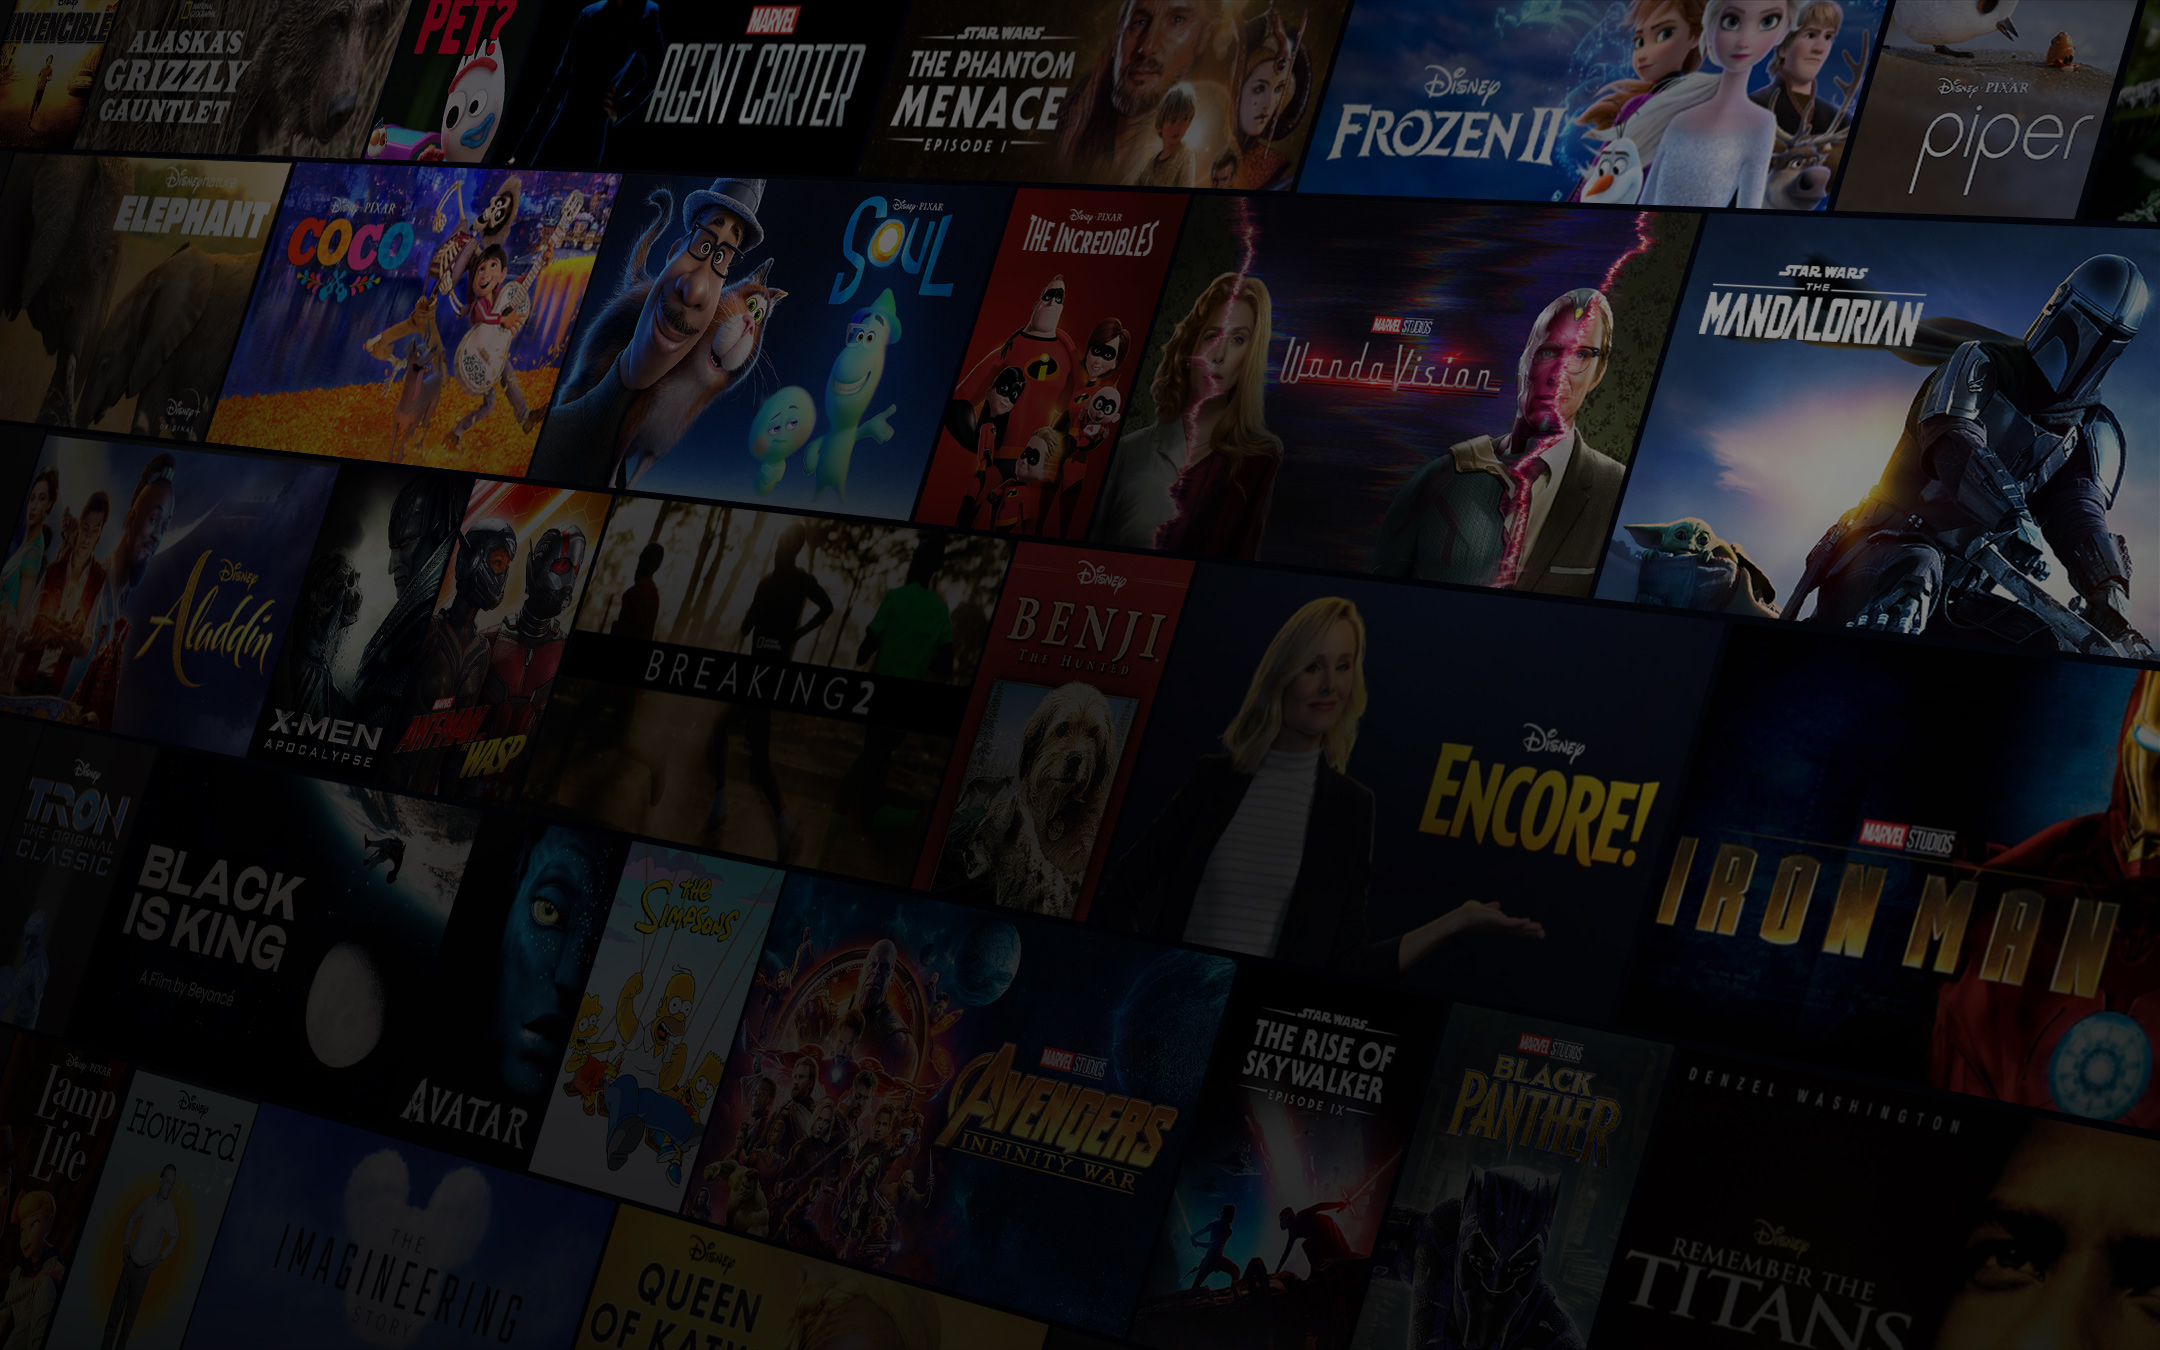
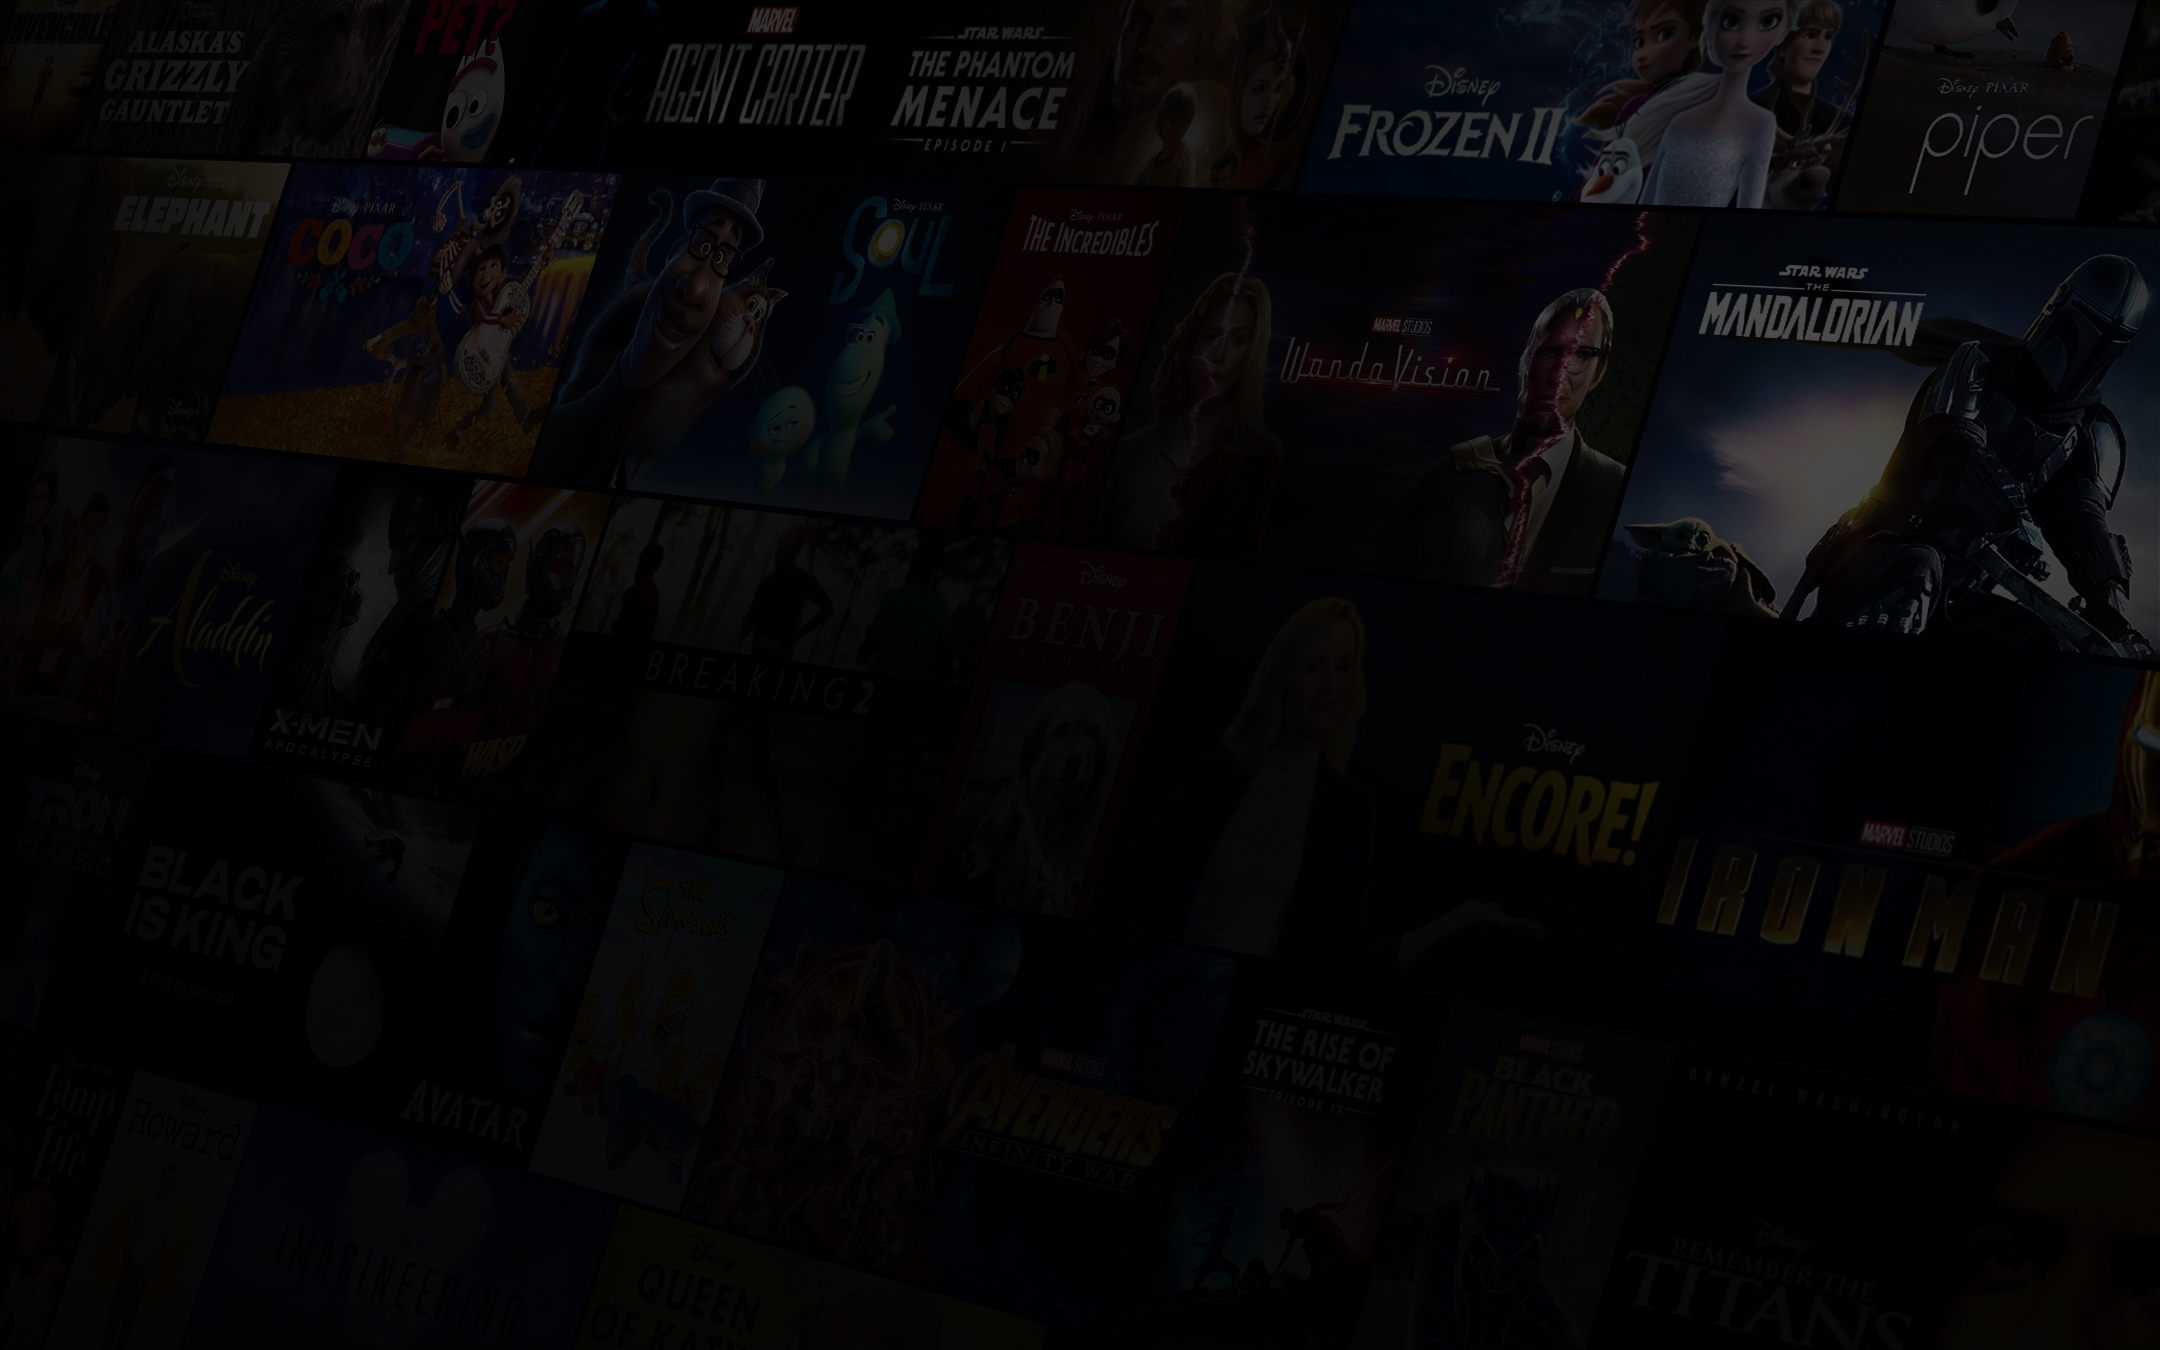
minor bugs 3.4 and background image

diff --git a/components/Row.tsx b/components/Row.tsx
@@ -28,26 +28,26 @@ function Row({ title, movies }: Props) {
 
   return (
     <div className="h-40 space-y-0.5 md:space-y-2">
-      <h2 className="w-56 cursor-pointer text-sm font-semibold text-black transition duration-200 hover:text-white md:text-2xl">
+      <h2 className="w-56 cursor-pointer text-sm font-semibold text-[#e5e5e5] transition duration-200 hover:text-white md:text-2xl">
         {title}
       </h2>
-      <div className="group relative md:-ml-2">
+      <div className="group relative">
         <ChevronLeftIcon
-          className={`absolute top-0 bottom-0 left-2 z-40 m-auto h-9 w-9 cursor-pointer opacity-0 transition hover:scale-125 group-hover:opacity-100 ${
+          className={`absolute top-0 bottom-0 left-2 z-40 m-auto h-9 w-9 cursor-pointer opacity-0 transition hover:scale-125 group-hover:opacity-100 group-hover:text-white ${
             !isMoved && 'hidden'
           }`}
           onClick={() => handleClick('left')}
         />
         <div
-          className="scrollbar-hide flex items-center space-x-0.5 overflow-x-scroll md:space-x-2.5 md:p-2"
+          className="flex items-center space-x-0.5 overflow-x-scroll scrollbar-hide md:space-x-4 md:p-2"
           ref={rowRef}
         >
           {movies.map((movie) => (
-            <Thumbnail key={movie.id} movie={movie}/>
+            <Thumbnail key={movie.id} movie={movie} />
           ))}
         </div>
         <ChevronRightIcon
-          className="absolute top-0 bottom-0 right-2 z-40 m-auto h-9 w-9 cursor-pointer opacity-0 transition hover:scale-125 group-hover:opacity-100"
+          className="absolute top-0 bottom-0 right-2 z-40 m-auto h-9 w-9 cursor-pointer opacity-0 transition hover:scale-125 group-hover:opacity-100 group-hover:text-white"
           onClick={() => handleClick('right')}
         />
       </div>

diff --git a/components/Brands.jsx b/components/Brands.jsx
@@ -4,19 +4,19 @@ import React from 'react'
 function Brands() {
   return (
     <section className="max-auto mt-10 flex max-w-[1400px] flex-col items-center justify-around gap-6 px-10 ml-5 xl:flex-row ">
-      <div className="brand transform-[300] group items-center justify-center bg-cover bg-fixed bg-center bg-no-repeat text-5xl font-bold hover:bg-[url('/images/horror.jpg')] hover:text-white">
+      <div className="brand group genre bg-[url('/images/horror.jpg')]">
         <h2>Horror</h2>
       </div>
-      <div className="brand transform-[300] group items-center justify-center bg-cover bg-fixed bg-center bg-no-repeat text-5xl font-bold hover:bg-[url('/images/kids.png')] hover:text-white">
+      <div className="brand group genre bg-[url('/images/kids.png')]">
         <h2>Kids</h2>
       </div>
-      <div className="brand transform-[300] group items-center justify-center bg-cover bg-fixed bg-center bg-no-repeat text-5xl font-bold hover:bg-[url('/images/action.jpg')] hover:text-white">
+      <div className="brand group genre bg-[url('/images/action.jpg')]">
         <h2>Action</h2>
       </div>
-      <div className="brand transform-[300] group items-center justify-center bg-cover bg-fixed bg-center bg-no-repeat text-5xl font-bold hover:bg-[url('/images/scifi.jpg')] hover:text-white">
+      <div className="brand group genre bg-[url('/images/scifi.jpg')]">
         <h2>Sci-fi</h2>
       </div>
-      <div className="brand transform-[300] group items-center justify-center bg-cover bg-fixed bg-center bg-no-repeat text-5xl font-bold hover:bg-[url('/images/romance.webp')] hover:text-white">
+      <div className="brand group genre bg-[url('/images/romance.webp')]">
         <h2>Romance</h2>
       </div>
     </section>

diff --git a/styles/globals.css b/styles/globals.css
@@ -4,7 +4,7 @@
 
 @layer base {
   body {
-    @apply bg-gray-100 text-black;
+    @apply bg-black text-black;
   }
 
   header {
@@ -22,6 +22,10 @@
   }
 
   .brand {
-    @apply relative flex h-32 w-52 transform cursor-pointer overflow-hidden rounded-lg border-[3px] border-black border-opacity-10 shadow-xl transition  duration-300 hover:scale-125 hover:border-opacity-80 hover:shadow-2xl sm:h-36 sm:w-64 text-black;
+    @apply relative flex w-52 transform cursor-pointer overflow-hidden rounded-lg border-[3px] border-black border-opacity-10 shadow-xl transition  duration-300 hover:scale-125 hover:border-opacity-80 hover:shadow-2xl sm:h-[20vh] sm:w-64 text-black;
+  }
+
+  .genre{
+    @apply  hover:z-10 items-center justify-center bg-center text-5xl font-bold hover:text-white bg-cover text-transparent
   }
 }

diff --git a/components/Thumbnail.tsx b/components/Thumbnail.tsx
@@ -8,7 +8,7 @@ interface Props{
 
 function Thumbnail({movie}:Props) {
   return (
-    < div className={`relative h-28 min-w-[180px] cursor-pointer transition duration-200 ease-out md:h-36 md:min-w-[260px] md:hover:scale-105`}>
+    < div className={`relative h-28 min-w-[180px] cursor-pointer transition duration-200 ease-out md:h-36 md:min-w-[260px] md:hover:scale-110 md:hover:border-4 md:hover:rounded-md`}>
         <Image
         src={`https://image.tmdb.org/t/p/w500${
           movie.backdrop_path || movie.poster_path

diff --git a/pages/index.tsx b/pages/index.tsx
@@ -32,7 +32,7 @@ const Home = ({
 }: // products,
 Props) => {
   return (
-    <div className="relative h-screen bg-gray-100 scrollbar-hide overflow-y-auto">
+    <div className="relative h-screen scrollbar-hide overflow-y-auto bg-hero-pattern bg-cover bg-no-repeat">
       <Head>
         <title>matinee</title>
         <link rel="icon" href="/favicon.ico" />

diff --git a/tailwind.config.js b/tailwind.config.js
@@ -4,7 +4,12 @@ module.exports = {
     './components/**/*.{js,ts,jsx,tsx}',
   ],
   theme: {
-    extend: {},
+    extend: {
+      backgroundImage: {
+      'hero-pattern': "url('/images/hero-background.jpg')",
+    }
+    },
+    
   },
   plugins: [
     require('tailwindcss-textshadow'),
